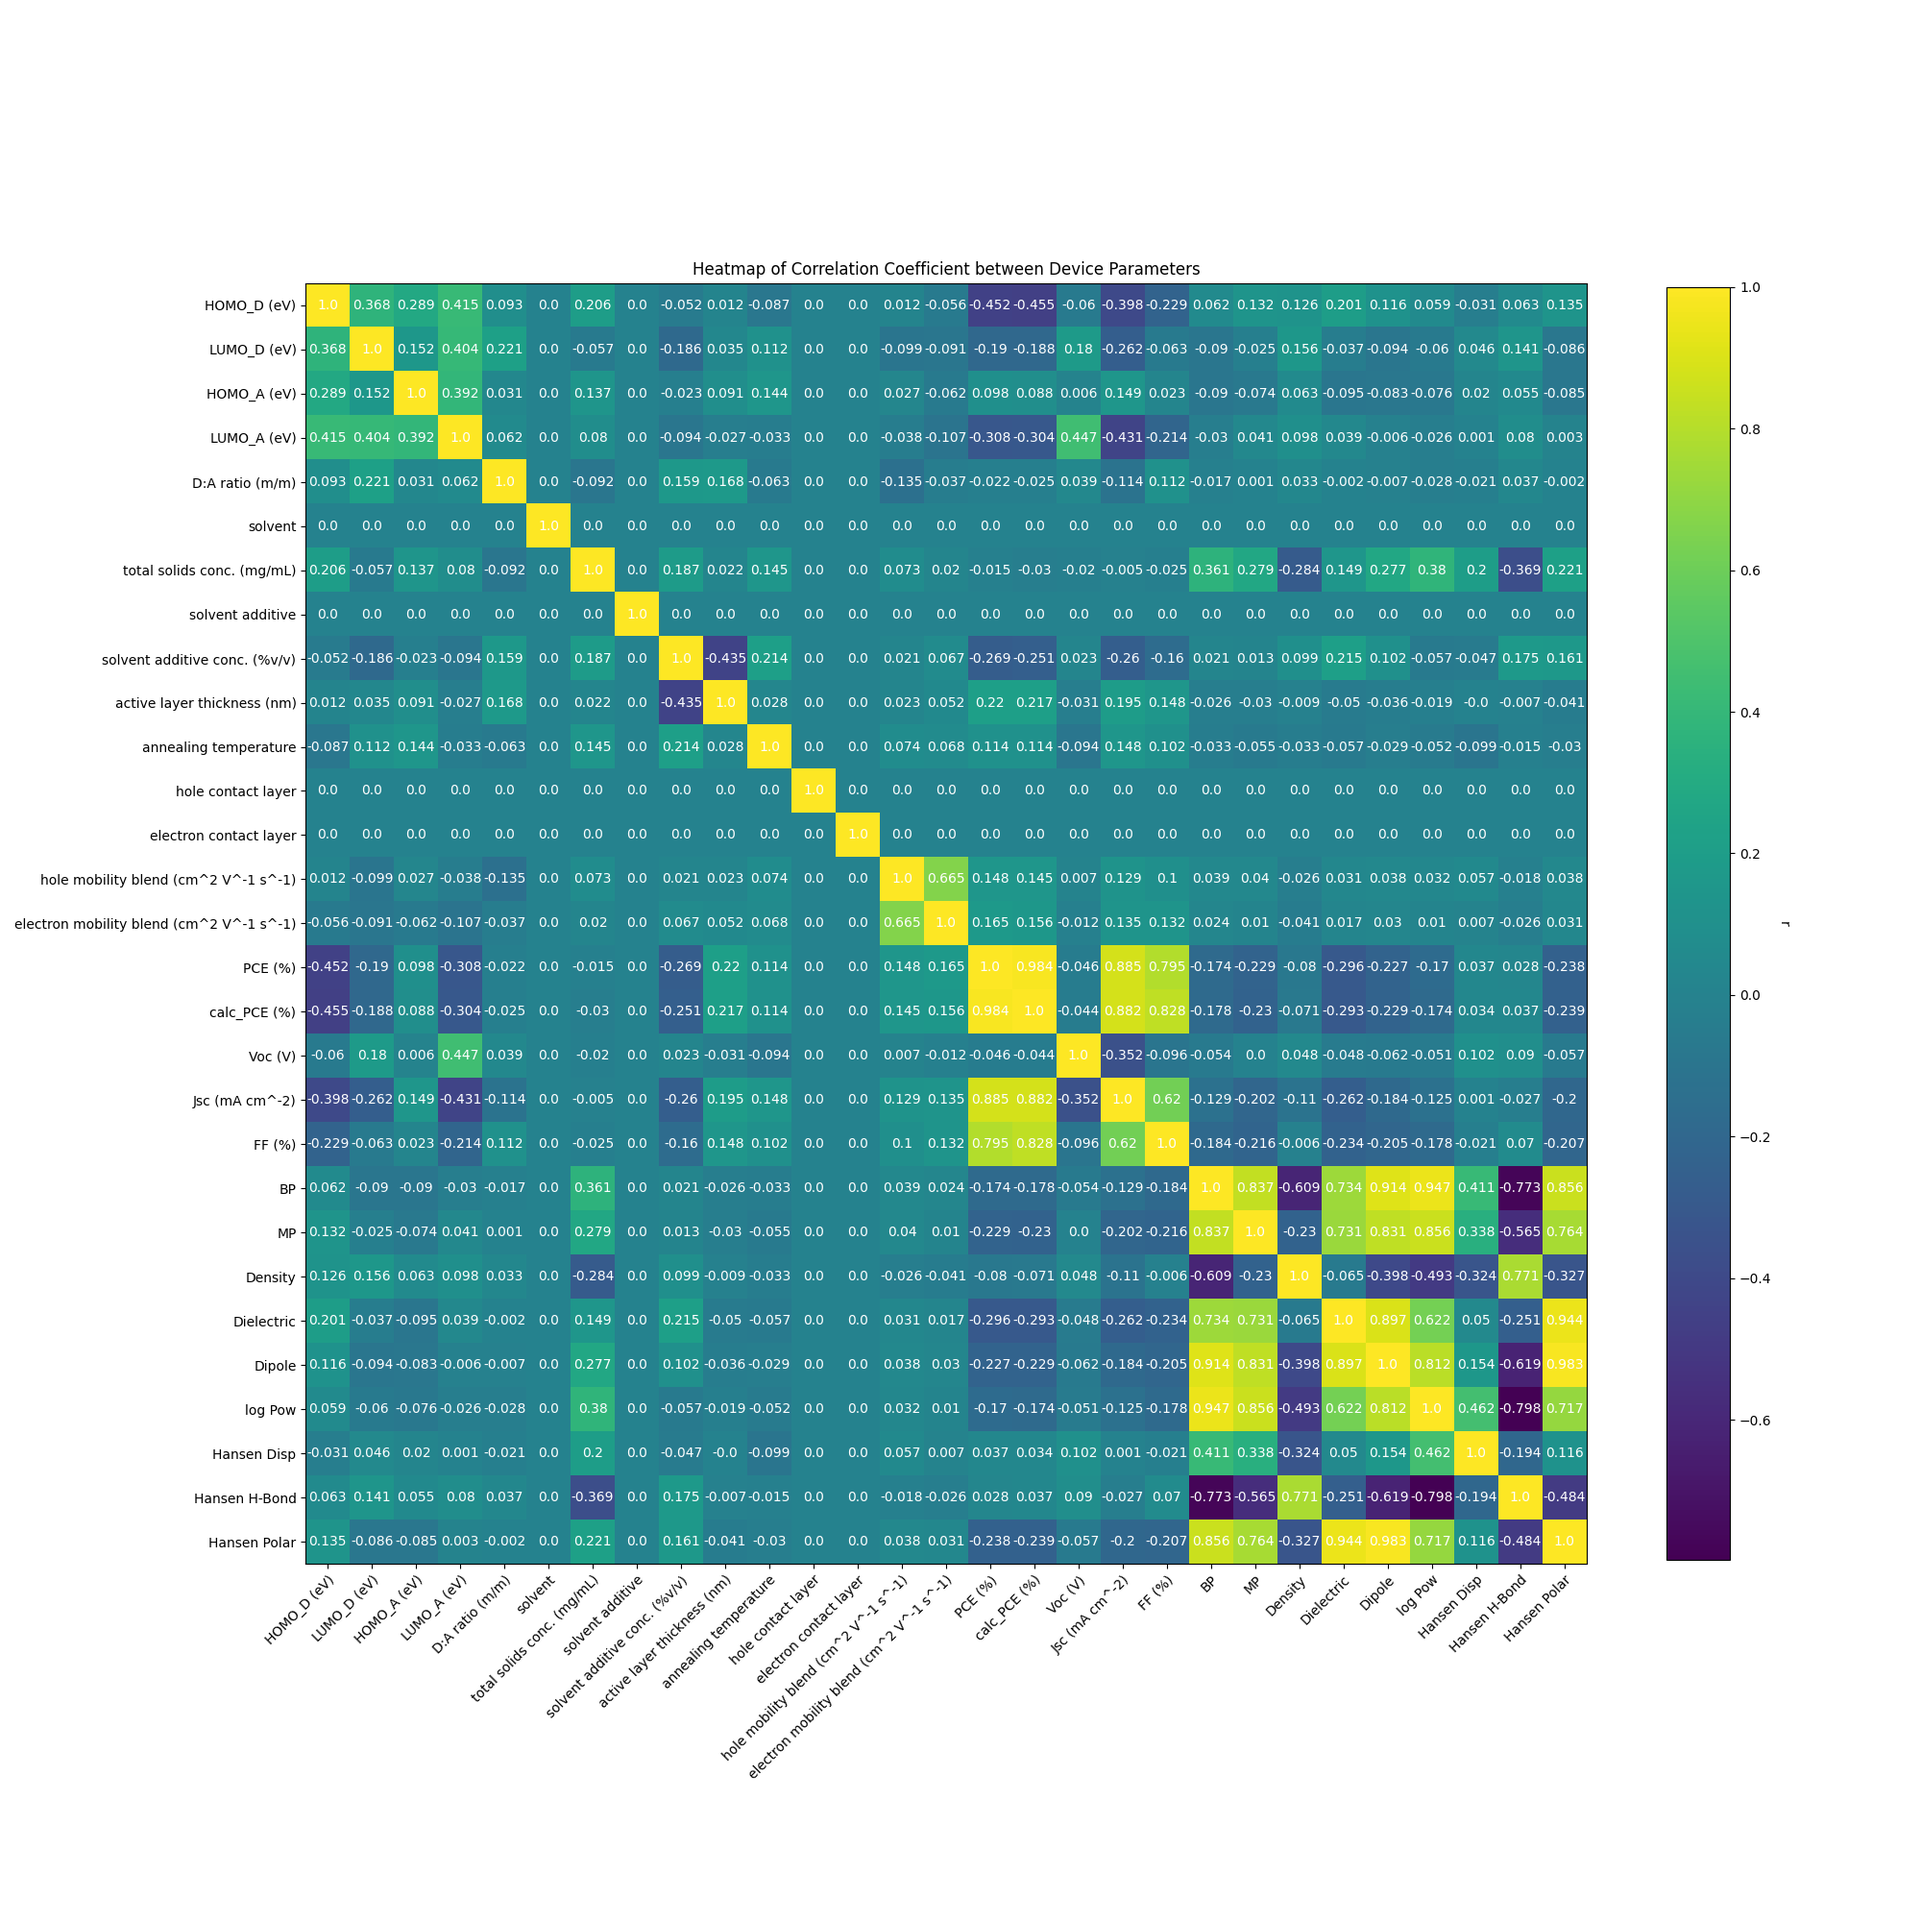
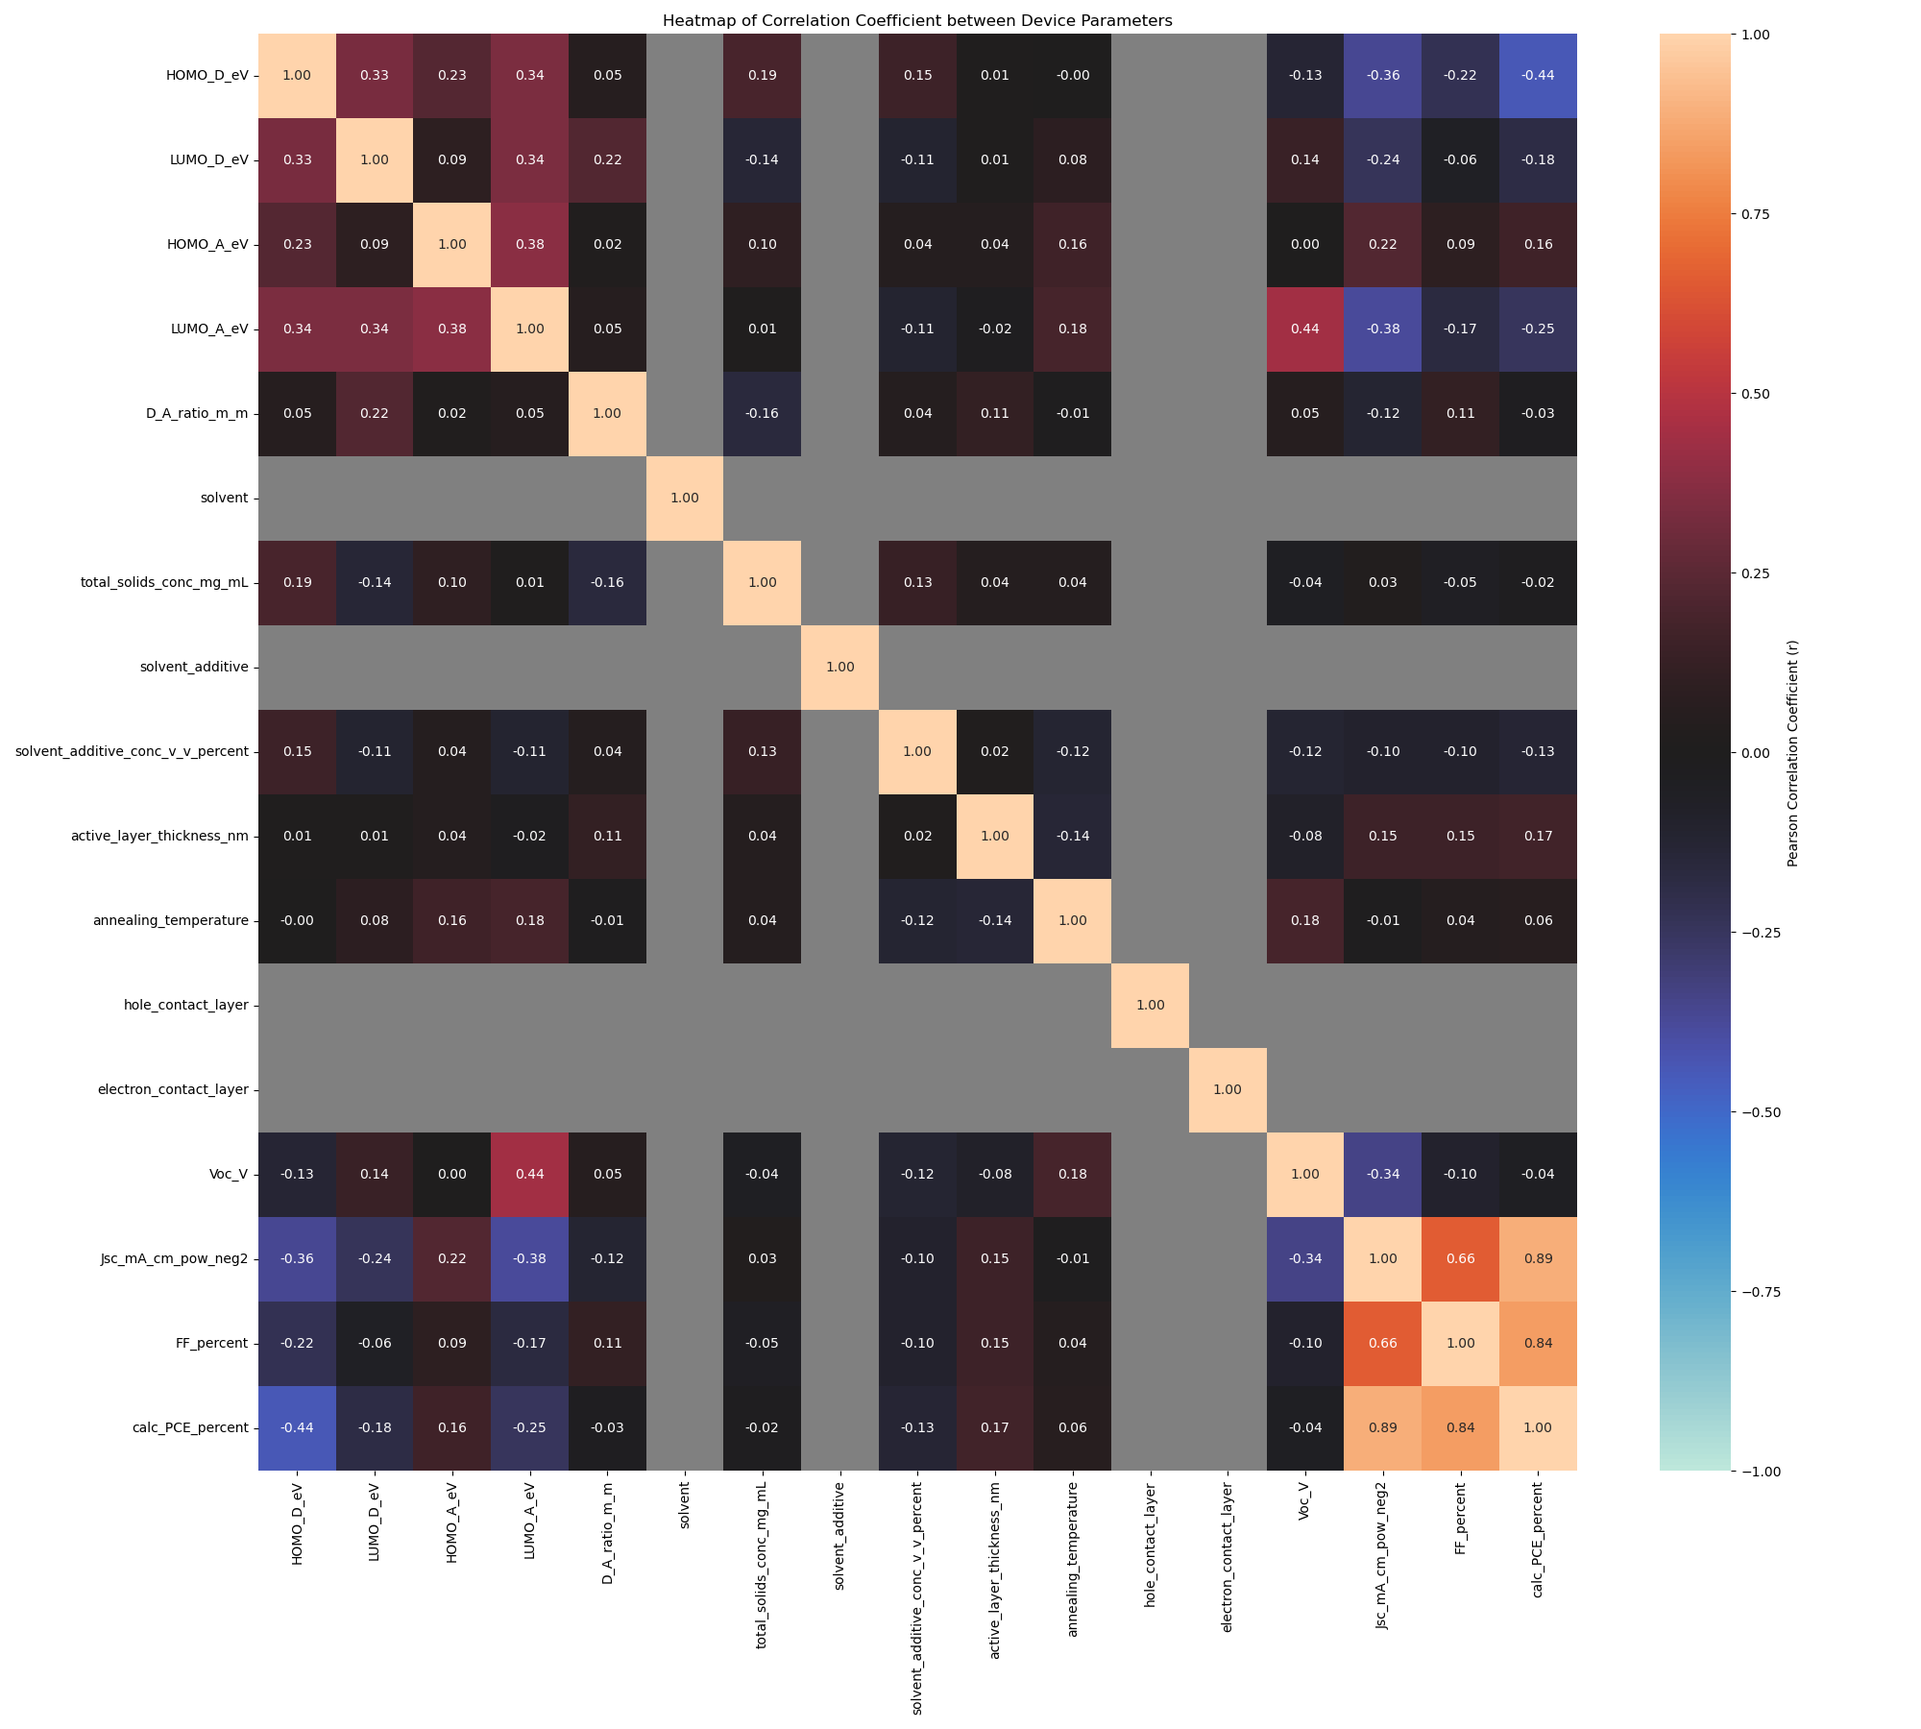
updated visuals

diff --git a/ml_for_opvs/data/exploration/OPV_Min/correlation.py b/ml_for_opvs/data/exploration/OPV_Min/correlation.py
@@ -1,9 +1,12 @@
 import ast
+from cmath import nan
 from doctest import master
 import math
+import matplotlib
 import pkg_resources
 import pandas as pd
 import matplotlib.pyplot as plt
+import seaborn as sns
 import numpy as np
 from matplotlib.offsetbox import AnchoredText
 import itertools
@@ -13,7 +16,8 @@ from sklearn.metrics import mean_squared_error
 
 # OPV data after pre-processing
 MASTER_ML_DATA_PLOT = pkg_resources.resource_filename(
-    "ml_for_opvs", "data/preprocess/OPV_Min/master_ml_for_opvs_from_min_for_plotting.csv"
+    "ml_for_opvs",
+    "data/preprocess/OPV_Min/master_ml_for_opvs_from_min_for_plotting.csv",
 )
 
 MASTER_ML_DATA = pkg_resources.resource_filename(
@@ -117,12 +121,22 @@ class Correlation:
                 filtered_column_1[0], float
             ):
                 # find slope and y-int of linear line of best fit
-                m, b = np.polyfit(filtered_column_1, filtered_column_0, 1,)
+                m, b = np.polyfit(
+                    filtered_column_1,
+                    filtered_column_0,
+                    1,
+                )
                 # find correlation coefficient
-                corr_coef = np.corrcoef(filtered_column_1, filtered_column_0,)[0, 1]
+                corr_coef = np.corrcoef(
+                    filtered_column_1,
+                    filtered_column_0,
+                )[0, 1]
                 # find rmse
                 rmse = np.sqrt(
-                    mean_squared_error(filtered_column_1, filtered_column_0,)
+                    mean_squared_error(
+                        filtered_column_1,
+                        filtered_column_0,
+                    )
                 )
                 axs[x_axis_idx, y_axis_idx].plot(
                     np.array(filtered_column_1),
@@ -167,16 +181,45 @@ class Correlation:
         print(columns_dict)
         # select which columns you want to plot
         column_idx_first = 9
-        column_idx_last = 37 + 1
+        column_idx_last = 28 + 1
 
-        x_columns = column_idx_last - column_idx_first
-        y_rows = column_idx_last - column_idx_first
+        x_columns = column_idx_last - column_idx_first - 3
+        y_rows = column_idx_last - column_idx_first - 3
 
-        column_range = range(column_idx_first, column_idx_last)
-        column_name_list = columns[column_idx_first:column_idx_last]
-        permutations = list(itertools.permutations(column_range, 2))
+        column_range: list = list(range(column_idx_first, 22))
+        # skip e- and h+ mobilities
+        # skip PCE_percent
+        column_range.extend(list(range(25, column_idx_last)))
 
-        fig, ax = plt.subplots(figsize=(20, 20))
+        select_df: pd.DataFrame = self.data.iloc[:, column_range]
+        # reorder dataframe
+        columns = [
+            "HOMO_D_eV",
+            "LUMO_D_eV",
+            "HOMO_A_eV",
+            "LUMO_A_eV",
+            "D_A_ratio_m_m",
+            "solvent",
+            "total_solids_conc_mg_mL",
+            "solvent_additive",
+            "solvent_additive_conc_v_v_percent",
+            "active_layer_thickness_nm",
+            "annealing_temperature",
+            "hole_contact_layer",
+            "electron_contact_layer",
+            "Voc_V",
+            "Jsc_mA_cm_pow_neg2",
+            "FF_percent",
+            "calc_PCE_percent",
+        ]
+        select_df: pd.DataFrame = select_df.reindex(columns=columns)
+        column_name_list: list = list(select_df.columns)
+        columns = select_df.columns
+        print(columns)
+
+        permutations = list(itertools.permutations(range(len(column_name_list)), 2))
+
+        fig, ax = plt.subplots(figsize=(20, 18))
 
         if option == "r":
             heatmap_array = np.ones((y_rows, x_columns))
@@ -188,8 +231,8 @@ class Correlation:
             column_idx_1 = pair[1]
             column_name_0 = columns[column_idx_0]
             column_name_1 = columns[column_idx_1]
-            column_0 = self.data[column_name_0]
-            column_1 = self.data[column_name_1]
+            column_0 = select_df[column_name_0]
+            column_1 = select_df[column_name_1]
             # handle unequal number of data points
             # mask values with True or False if nan
             isna_column_0 = column_0.isna().tolist()
@@ -204,8 +247,6 @@ class Correlation:
                 index += 1
 
             # indexes needed to fill in array appropriately
-            x_axis_idx = column_idx_0 - column_idx_first
-            y_axis_idx = column_idx_1 - column_idx_first
 
             # handle different data types (str, float)
             if isinstance(filtered_column_0[0], float) and isinstance(
@@ -213,37 +254,38 @@ class Correlation:
             ):
                 if option == "r":
                     # find correlation coefficient
-                    result = np.corrcoef(filtered_column_1, filtered_column_0,)[0, 1]
+                    result = np.corrcoef(
+                        filtered_column_1,
+                        filtered_column_0,
+                    )[0, 1]
                 elif option == "rmse":
                     # find rmse
                     result = np.sqrt(
-                        mean_squared_error(filtered_column_1, filtered_column_0,)
+                        mean_squared_error(
+                            filtered_column_1,
+                            filtered_column_0,
+                        )
                     )
-                heatmap_array[x_axis_idx, y_axis_idx] = round(result, 3)
+                heatmap_array[column_idx_0, column_idx_1] = round(result, 2)
             else:
-                heatmap_array[x_axis_idx, y_axis_idx] = 0
+                heatmap_array[column_idx_0, column_idx_1] = nan
+        custom_colormap = sns.color_palette("icefire", as_cmap=True)
+        custom_colormap.set_bad("grey")
 
-        im = ax.imshow(heatmap_array)
+        sns.heatmap(
+            heatmap_array,
+            annot=True,
+            cmap=custom_colormap,
+            fmt=".2f",
+            cbar_kws={"label": "Pearson Correlation Coefficient (r)"},
+            vmin=-1.0,
+            vmax=1.0,
+            mask=heatmap_array == nan,
+        )
 
         # Show all ticks and label them with the respective list entries
-        ax.set_xticks(np.arange(len(column_name_list)))
-        ax.set_yticks(np.arange(len(column_name_list)))
-        ax.set_xticklabels(column_name_list)
-        ax.set_yticklabels(column_name_list)
-
-        # Rotate the tick labels and set their alignment.
-        plt.setp(ax.get_xticklabels(), rotation=45, ha="right", rotation_mode="anchor")
-
-        # Loop over data dimensions and create text annotations.
-        for i in range(len(column_name_list)):
-            for j in range(len(column_name_list)):
-                text_r = ax.text(
-                    j, i, heatmap_array[i, j], ha="center", va="center", color="w"
-                )
-
-        # Create colorbar
-        cbar = ax.figure.colorbar(im, ax=ax, shrink=0.7)
-        cbar.ax.set_ylabel(option, rotation=-90, va="bottom")
+        ax.set_xticklabels(column_name_list, rotation=90)
+        ax.set_yticklabels(column_name_list, rotation=0)
 
         if option == "r":
             ax.set_title("Heatmap of Correlation Coefficient between Device Parameters")
@@ -304,8 +346,8 @@ class Correlation:
         self.data.to_csv(master_ml_data_path, index=False)
 
 
-# corr_plot = Correlation(MASTER_ML_DATA_PLOT)
+corr_plot = Correlation(MASTER_ML_DATA_PLOT)
 # corr_plot.parity_plot()
-# corr_plot.heatmap_plot("r")
+corr_plot.heatmap_plot("r")
 
 # corr_plot.solvent_correlation(PARAMETER_INVENTORY, MASTER_ML_DATA)

diff --git a/ml_for_opvs/data/exploration/OPV_Min/distribution.py b/ml_for_opvs/data/exploration/OPV_Min/distribution.py
@@ -7,7 +7,8 @@ from cmath import nan
 
 # OPV data after pre-processing
 MASTER_ML_DATA_PLOT = pkg_resources.resource_filename(
-    "ml_for_opvs", "data/preprocess/OPV_Min/master_ml_for_opvs_from_min_for_plotting.csv"
+    "ml_for_opvs",
+    "data/preprocess/OPV_Min/master_ml_for_opvs_from_min_for_plotting.csv",
 )
 
 DISTRIBUTION_PLOT = pkg_resources.resource_filename(
@@ -58,19 +59,24 @@ class Distribution:
         print(columns_dict)
         # select which columns you want to plot in the histogram
         column_idx_first = 9
-        column_idx_last = 37 + 1
+        column_idx_last = 28 + 1
 
         # prepares the correct number of (x,y) subplots
-        num_columns = column_idx_last - column_idx_first
-        x_columns = round(np.sqrt(num_columns))
-        if x_columns == np.floor(np.sqrt(num_columns)):
-            y_rows = x_columns + 1
-        elif x_columns == np.ceil(np.sqrt(num_columns)):
-            y_rows = x_columns
-        print(x_columns, y_rows)
+        # num_columns = column_idx_last - column_idx_first
+        # x_columns = round(np.sqrt(num_columns))
+        # if x_columns == np.floor(np.sqrt(num_columns)):
+        #     y_rows = x_columns + 1
+        # elif x_columns == np.ceil(np.sqrt(num_columns)):
+        #     y_rows = x_columns
+        # print(x_columns, y_rows)
+        y_rows = 3
+        x_columns = 6
 
-        fig, axs = plt.subplots(y_rows, x_columns, figsize=(y_rows * 3, x_columns * 4))
-        column_range = range(column_idx_first, column_idx_last)
+        fig, axs = plt.subplots(y_rows, x_columns, figsize=(y_rows * 6, x_columns * 2))
+        column_range: list = list(range(column_idx_first, 22))
+        # skip e- and h+ mobilities
+        # skip PCE_percent
+        column_range.extend(list(range(25, column_idx_last)))
 
         x_idx = 0
         y_idx = 0
@@ -195,9 +201,9 @@ class Distribution:
         plt.savefig(x_y_path)
 
 
-# dist = Distribution(MASTER_ML_DATA_PLOT)
+dist = Distribution(MASTER_ML_DATA_PLOT)
 
-# dist.histogram()
+dist.histogram()
 
 # dist.x_y_heatmap("Donor", "Acceptor", DONOR_ACCEPTOR_PATH)
 

diff --git a/ml_for_opvs/visualization/heatmap.py b/ml_for_opvs/visualization/heatmap.py
@@ -77,6 +77,7 @@ def heatmap(config: dict):
         "DA_SELFIES",
         "DA_BigSMILES",
         "DA_SMILES",
+        "HOMO_D_eV,LUMO_D_eV,HOMO_A_eV,LUMO_A_eV",
     ]
 
     # Heatmap
